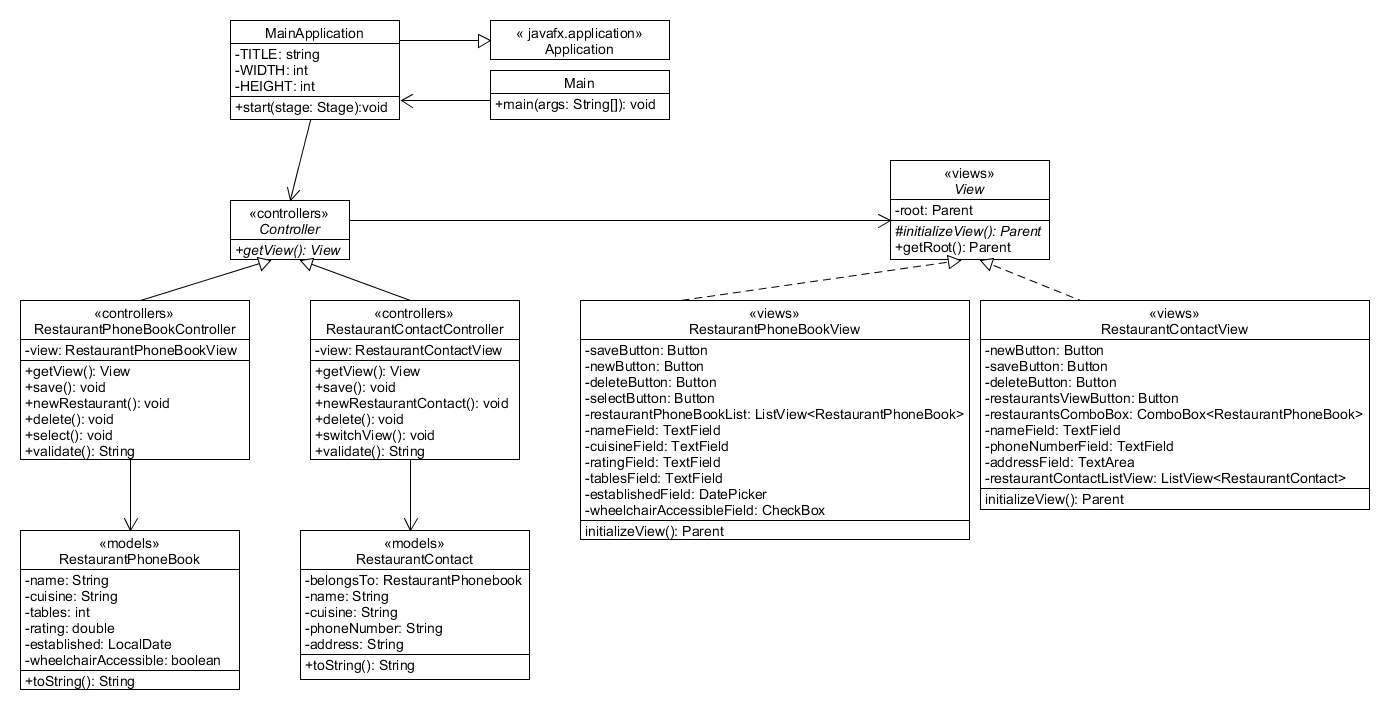
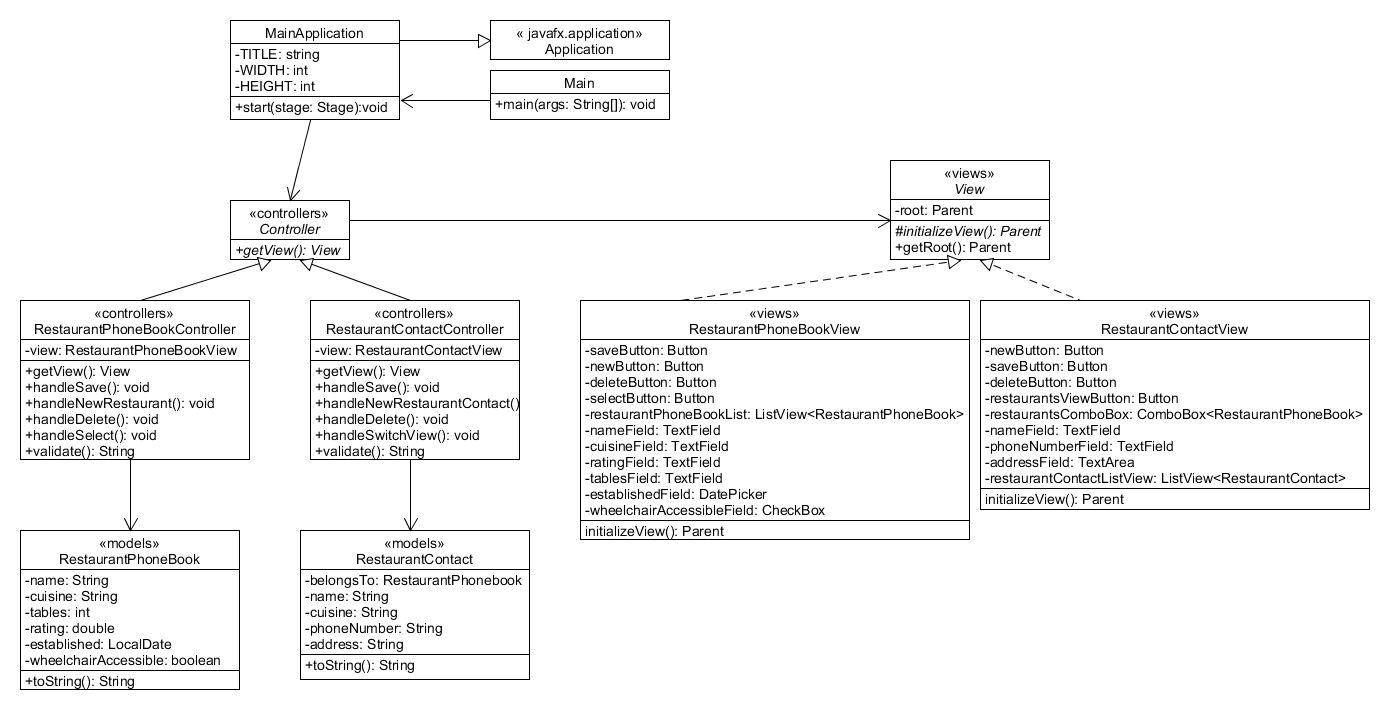
- naming correction

Changed region(s): [[0.2165, 0.5268, 0.3712, 0.6197], [0.0309, 0.5268, 0.1547, 0.6197]]

diff --git a/src/practicumopdracht/controllers/RestaurantPhoneBookController.java b/src/practicumopdracht/controllers/RestaurantPhoneBookController.java
@@ -13,10 +13,10 @@ public class RestaurantPhoneBookController extends Controller {
 
     public RestaurantPhoneBookController() {
         this.view = new RestaurantPhoneBookView();
-        save();
-        newRestaurant();
-        delete();
-        select();
+        view.getSaveButton().setOnAction(event -> handleSave());
+        view.getNewButton().setOnAction(event -> handleNewRestaurant());
+        view.getDeleteButton().setOnAction(event -> handleDelete());
+        view.getSelectButton().setOnAction(event -> handleSelect());
     }
 
     @Override
@@ -24,59 +24,54 @@ public class RestaurantPhoneBookController extends Controller {
         return view;
     }
 
-    private void save() {
-        view.getSaveButton().setOnAction(event -> {
-            String mistakes = validate();
-            if (!mistakes.isBlank()) {
-                Alert alert = new Alert(Alert.AlertType.WARNING);
-                alert.setTitle("Error");
-                alert.setHeaderText("Mistakes found".toUpperCase());
-                alert.setContentText(mistakes);
-                alert.showAndWait();
-            } else {
-                RestaurantPhoneBook restaurantPhoneBook = new RestaurantPhoneBook(
-                        view.getNameField().getText(),
-                        view.getCuisineField().getText(),
-                        Integer.parseInt(view.getTablesField().getText()),
-                        Double.parseDouble(view.getRatingField().getText()),
-                        view.getEstablishedField().getValue(),
-                        view.getWheelchairAccessibleField().isSelected()
-                );
-                Alert alert = new Alert(Alert.AlertType.INFORMATION);
-                alert.setTitle("Saved");
-                alert.setHeaderText("Saved".toUpperCase());
-                alert.setContentText(restaurantPhoneBook.toString());
-                alert.showAndWait();
-                view.getNameField().setText("");
-                view.getCuisineField().setText("");
-                view.getTablesField().setText("");
-                view.getRatingField().setText("");
-                view.getEstablishedField().setValue(null);
-                view.getWheelchairAccessibleField().setSelected(false);
-            }
-        });
-    }
-
-    private void newRestaurant() {
-        view.getNewButton().setOnAction(event -> {
-            Alert alert = new Alert(Alert.AlertType.INFORMATION);
-            alert.setTitle("New Restaurant");
-            alert.setHeaderText("New Restaurant".toUpperCase());
+    private void handleSave() {
+        String mistakes = validate();
+        if (!mistakes.isBlank()) {
+            Alert alert = new Alert(Alert.AlertType.WARNING);
+            alert.setTitle("Error");
+            alert.setHeaderText("Mistakes found".toUpperCase());
+            alert.setContentText(mistakes);
             alert.showAndWait();
-        });
-    }
-
-    private void delete() {
-        view.getDeleteButton().setOnAction(event -> {
+        } else {
+            RestaurantPhoneBook restaurantPhoneBook = new RestaurantPhoneBook(
+                    view.getNameField().getText(),
+                    view.getCuisineField().getText(),
+                    Integer.parseInt(view.getTablesField().getText()),
+                    Double.parseDouble(view.getRatingField().getText()),
+                    view.getEstablishedField().getValue(),
+                    view.getWheelchairAccessibleField().isSelected()
+            );
             Alert alert = new Alert(Alert.AlertType.INFORMATION);
-            alert.setTitle("Delete");
-            alert.setHeaderText("Delete".toUpperCase());
+            alert.setTitle("Saved");
+            alert.setHeaderText("Saved".toUpperCase());
+            alert.setContentText(restaurantPhoneBook.toString());
             alert.showAndWait();
-        });
+            view.getNameField().setText("");
+            view.getCuisineField().setText("");
+            view.getTablesField().setText("");
+            view.getRatingField().setText("");
+            view.getEstablishedField().setValue(null);
+            view.getWheelchairAccessibleField().setSelected(false);
+        }
+
     }
 
-    private void select() {
-        view.getSelectButton().setOnAction(event -> MainApplication.switchController(new RetaurantContactController()));
+    private void handleNewRestaurant() {
+        Alert alert = new Alert(Alert.AlertType.INFORMATION);
+        alert.setTitle("New Restaurant");
+        alert.setHeaderText("New Restaurant".toUpperCase());
+        alert.showAndWait();
+    }
+
+    private void handleDelete() {
+        Alert alert = new Alert(Alert.AlertType.INFORMATION);
+        alert.setTitle("Delete");
+        alert.setHeaderText("Delete".toUpperCase());
+        alert.showAndWait();
+    }
+
+    private void handleSelect() {
+        MainApplication.switchController(new RetaurantContactController());
     }
 
     private String validate() {

diff --git a/src/practicumopdracht/controllers/RetaurantContactController.java b/src/practicumopdracht/controllers/RetaurantContactController.java
@@ -12,10 +12,11 @@ public class RetaurantContactController extends Controller {
 
     public RetaurantContactController() {
         this.view = new RestaurantContactView();
-        save();
-        newRestaurantContact();
-        delete();
-        switchView();
+
+        view.getSaveButton().setOnAction(event -> handleSave());
+        view.getNewButton().setOnAction(event -> handleNewRestaurantContact());
+        view.getDeleteButton().setOnAction(event -> handleDelete());
+        view.getRestaurantsViewButton().setOnAction(event -> handleSwitchView());
     }
 
     @Override
@@ -23,55 +24,48 @@ public class RetaurantContactController extends Controller {
         return view;
     }
 
-    private void save() {
-        view.getSaveButton().setOnAction(event -> {
-            String mistakes = validate();
-            if (!mistakes.isBlank()) {
-                Alert alert = new Alert(Alert.AlertType.WARNING);
-                alert.setTitle("Error");
-                alert.setHeaderText("Mistakes found".toUpperCase());
-                alert.setContentText(mistakes);
-                alert.showAndWait();
-            } else {
-                RestaurantContact restaurantContact = new RestaurantContact(
-                        new RestaurantPhoneBook(),
-                        view.getNameField().getText(),
-                        view.getPhoneNumberField().getText(),
-                        view.getAddressField().getText()
-                );
-                Alert alert = new Alert(Alert.AlertType.INFORMATION);
-                alert.setTitle("Saved");
-                alert.setHeaderText("Saved".toUpperCase());
-                alert.setContentText(restaurantContact.toString());
-                alert.showAndWait();
-                view.getNameField().setText("");
-                view.getPhoneNumberField().setText("");
-                view.getAddressField().setText("");
-            }
-        });
-    }
-
-    private void newRestaurantContact() {
-        view.getNewButton().setOnAction(event -> {
-            Alert alert = new Alert(Alert.AlertType.INFORMATION);
-            alert.setTitle("New Restaurant");
-            alert.setHeaderText("New Restaurant".toUpperCase());
+    private void handleSave() {
+        String mistakes = validate();
+        if (!mistakes.isBlank()) {
+            Alert alert = new Alert(Alert.AlertType.WARNING);
+            alert.setTitle("Error");
+            alert.setHeaderText("Mistakes found".toUpperCase());
+            alert.setContentText(mistakes);
             alert.showAndWait();
-        });
-    }
-
-    private void delete() {
-        view.getDeleteButton().setOnAction(event -> {
+        } else {
+            RestaurantContact restaurantContact = new RestaurantContact(
+                    new RestaurantPhoneBook(),
+                    view.getNameField().getText(),
+                    view.getPhoneNumberField().getText(),
+                    view.getAddressField().getText()
+            );
             Alert alert = new Alert(Alert.AlertType.INFORMATION);
-            alert.setTitle("Delete");
-            alert.setHeaderText("Delete".toUpperCase());
+            alert.setTitle("Saved");
+            alert.setHeaderText("Saved".toUpperCase());
+            alert.setContentText(restaurantContact.toString());
             alert.showAndWait();
-        });
+            view.getNameField().setText("");
+            view.getPhoneNumberField().setText("");
+            view.getAddressField().setText("");
+        }
     }
 
-    private void switchView() {
-        view.getRestaurantsViewButton().setOnAction(event ->
-                MainApplication.switchController(new RestaurantPhoneBookController()));
+    private void handleNewRestaurantContact() {
+        Alert alert = new Alert(Alert.AlertType.INFORMATION);
+        alert.setTitle("New Restaurant");
+        alert.setHeaderText("New Restaurant".toUpperCase());
+        alert.showAndWait();
+    }
+
+    private void handleDelete() {
+        Alert alert = new Alert(Alert.AlertType.INFORMATION);
+        alert.setTitle("Delete");
+        alert.setHeaderText("Delete".toUpperCase());
+        alert.showAndWait();
+    }
+
+    private void handleSwitchView() {
+        MainApplication.switchController(new RestaurantPhoneBookController());
     }
 
     private String validate() {
